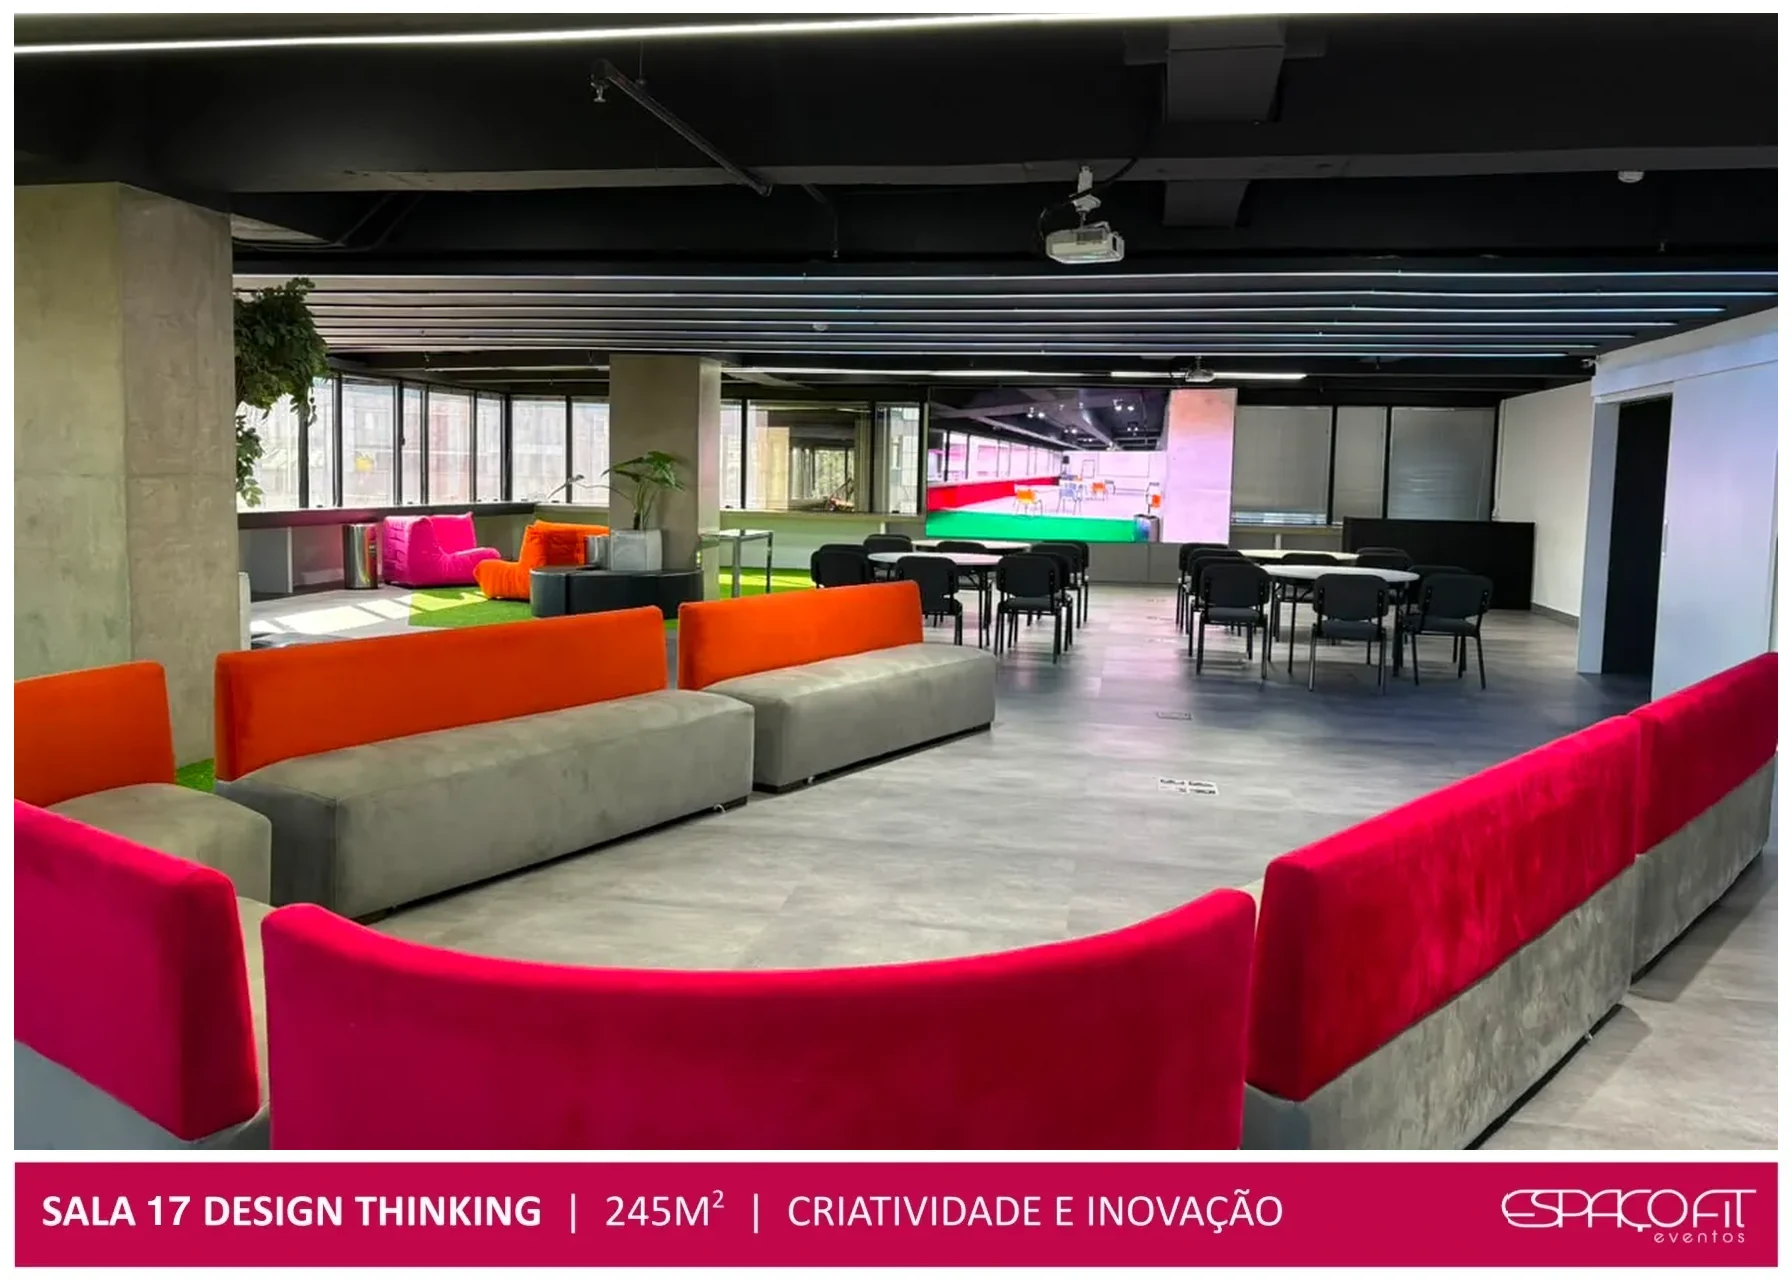
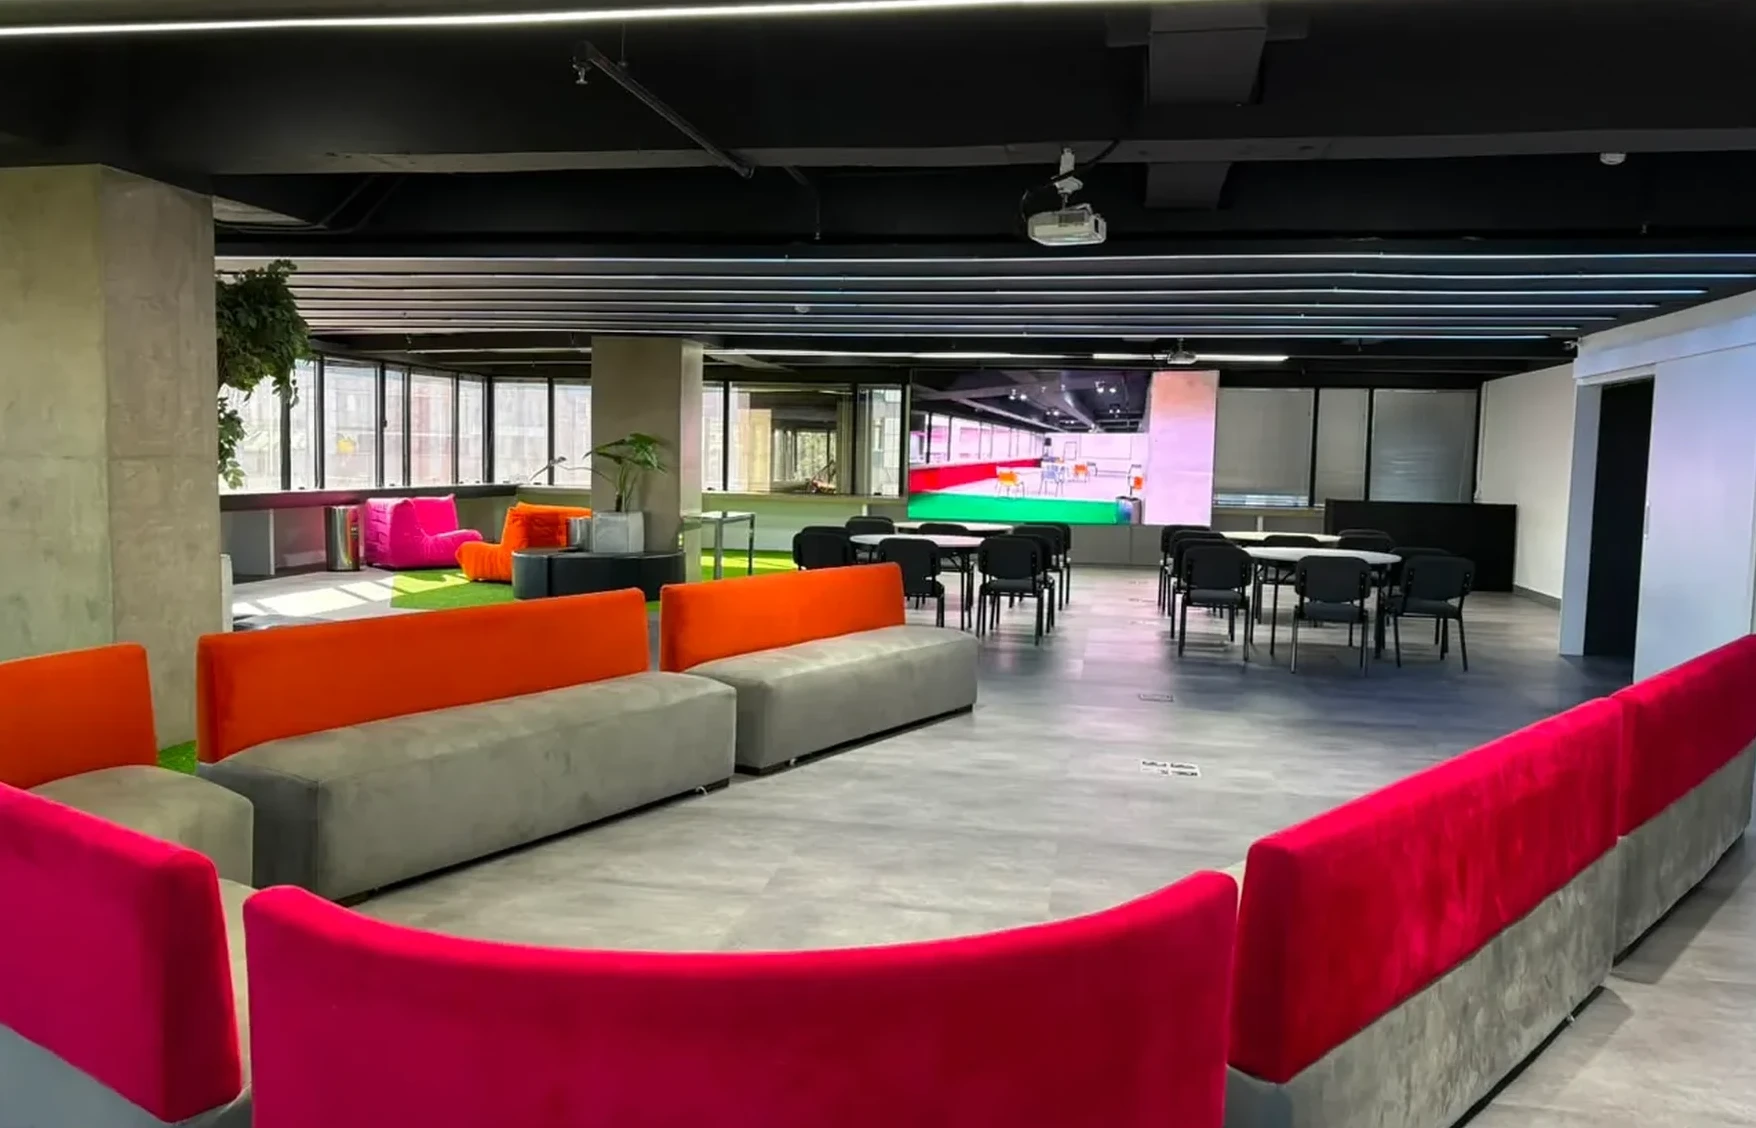
feat(eventos-corporativos-v6): legendas dos carrosséis em HTML e novas fotos de salas
As legendas (faixa vinho com nome da sala, m² e logo) estavam gravadas dentro
de cada imagem, então trocar foto ou texto exigia refazer a arte. Agora as
fotos ficam sem faixa e a legenda é um <figcaption> desenhado em CSS, com os
textos em listas no frontmatter da página (salas, auditorios, hibridos).

- scripts/strip-faixa.mjs: corta moldura e faixa de fotos exportadas do
  PowerPoint (slide 1792x1280); logo branco extraído em logo-faixa.png
- carrosséis "16 salas", "Salas e auditórios" e "Eventos híbridos" migrados;
  em cartão estreito (celular) some o texto de apoio e a legenda quebra em
  até 2 linhas; o visualizador em tela cheia também mostra a legenda
- fotos de auditório/híbridos da v5 copiadas para a pasta da v6 (a v5 segue
  intacta); fotos antigas substituídas removidas

Ajustes pedidos pela equipe:
- Sala de reunião: nova foto (cadeiras vermelhas)
- Sala 01: metragem 285 -> 400M²; nova foto do salão com painel de LED
- Sala 07 vira Sala 4 (130M²); Sala 03 (140M²) sai, entra Sala 4 escolar
- Sala 06 (245M²) vira Sala 3, com nova foto
- Salas 08 a 19 -> Sala 12 (115M²) com nova foto; slide restante vira
  "Salas 06 e 07" (60M² a 80M², metragem mantida)
- Híbridos: auditório com projeção mapeada substitui o salão rosa; foto do
  chroma key aguarda envio da equipe

diff --git a/src/styles/eventos-corporativos-v6.css b/src/styles/eventos-corporativos-v6.css
@@ -2508,6 +2508,61 @@ body .contato-form-wrap .form-submit.form-submit {
 @media (hover: hover) {
     .salas-v5-slide:hover img { transform: scale(1.04); }
 }
+
+/* Slide com legenda em HTML (<figure>): a foto vem sem faixa e a faixa vinho
+   com o texto e o logo é desenhada aqui, então trocar foto ou texto não exige
+   refazer imagem. Mantém o mesmo cartão 7:5: foto em cima, faixa embaixo */
+.salas-v5-slide--cap {
+    margin: 0;
+    display: flex;
+    flex-direction: column;
+    container-type: inline-size;
+}
+.salas-v5-slide--cap img {
+    flex: 1 1 0;
+    min-height: 0;
+    height: auto;
+    object-fit: cover;
+}
+.salas-v5-cap {
+    position: relative; /* fica por cima da foto no zoom do hover */
+    z-index: 1;
+    flex: none;
+    display: flex;
+    align-items: center;
+    padding: 5px 3.2cqw;
+    min-height: 7.6cqw;
+    background: var(--salas-red);
+    color: #fff;
+    font-size: clamp(10px, 2.7cqw, 15px);
+    line-height: 1.25;
+    letter-spacing: .01em;
+}
+/* texto: partes separadas por "|"; se não couber em 1 linha, quebra em 2 */
+.salas-v5-cap-txt { flex: 1 1 0; min-width: 0; font-weight: 400; }
+.salas-v5-cap-txt b,
+.salas-v5-cap-txt strong { font-weight: 800; }
+.salas-v5-cap-txt > * + *::before {
+    content: "|";
+    margin: 0 .6em;
+    font-weight: 400;
+}
+/* logo Espaço Fit (branco) à direita da faixa */
+.salas-v5-cap::after {
+    content: "";
+    flex: none;
+    margin-left: 12px;
+    width: 11.5cqw;
+    height: 2.6cqw;
+    min-height: 13px;
+    background: url('../assets/images/corporativo-v6/logo-faixa.png') right center / contain no-repeat;
+}
+/* cartão estreito (celular): some o texto de apoio (.salas-v5-cap-opt) */
+@container (max-width: 400px) {
+    .salas-v5-cap-opt { display: none; }
+    .salas-v5-cap-txt > .salas-v5-cap-opt:first-child + *::before { content: none; }
+    .salas-v5-cap-txt > * + *::before { margin: 0 .4em; }
+}
 .salas-v5-progress {
     position: relative;
     height: 2px;
